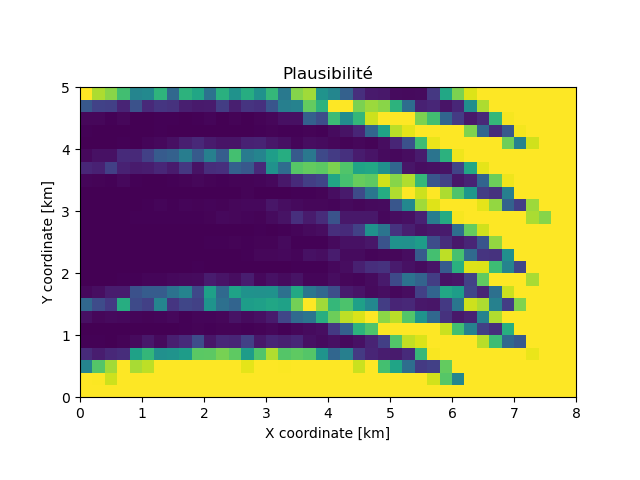
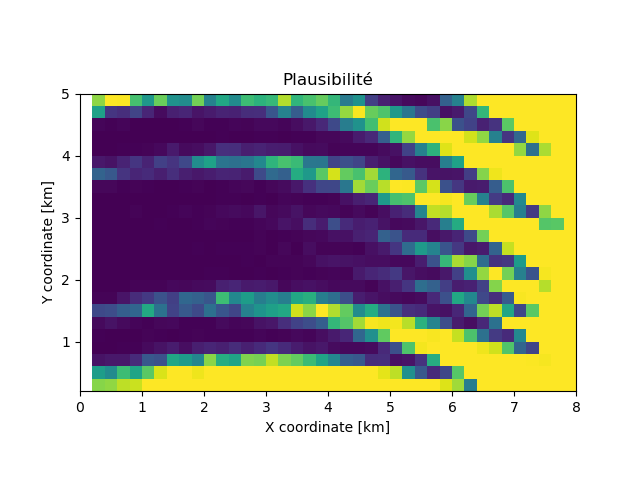
Minor revision
Renamed capteur.csv to capteurs.csv
Now we pass parameters to C functions from Python.

Changed region(s): [[0.0938, 0.125, 0.9062, 0.9375]]

diff --git a/code/pylib.py b/code/pylib.py
@@ -1,10 +1,11 @@
 import sys
 from pathlib import Path
 import ctypes
+from math import floor
 
 ## -----------------------------------------------------------------------------
 
-# Define the ctypes structure
+# Define ctypes structure
 class Capteur(ctypes.Structure):
     _fields_ = [
         ('x', ctypes.c_double),
@@ -13,7 +14,7 @@ class Capteur(ctypes.Structure):
         ('paquets', ctypes.c_int)
     ]
 
-def dataframe2struct(df):
+def capteur2struct(df):
 
     # Create a ctypes array of MyStruct
     ctypes_array = (Capteur * len(df))()
@@ -26,7 +27,28 @@ def dataframe2struct(df):
         ctypes_array[i].paquets = 0
 
     return ctypes_array
+    
+# Define ctypes structure
+class Grille(ctypes.Structure):
+    _fields_ = [
+        ('r0', ctypes.c_double * 2),
+        ('dr', ctypes.c_double * 2),
+        ('n', ctypes.c_int * 2),
+    ]
+    
+def grille2struct(r0, rmax, dr):
 
+    npoints = list(map(lambda r0, dr, rmax: \
+                       floor((rmax - r0) / dr), r0, dr, rmax))
+    
+    grille = Grille()
+    for i in range(len(r0)):
+        grille.r0[i] = r0[i]
+        grille.dr[i] = dr[i]        
+        grille.n[i] = npoints[i]
+
+    return grille
+    
 ## -----------------------------------------------------------------------------
 
 # Load the shared library into ctypes
@@ -41,28 +63,33 @@ dll.print_sensor_pos.restype = None
 
 def sensor_test(df):
     # Call the C function
-    ctypes_struct_array = dataframe2struct(df)
+    ctypes_struct_array = capteur2struct(df)
     return dll.print_sensor_pos(len(ctypes_struct_array), ctypes_struct_array)
 
 ## -----------------------------------------------------------------------------
 
-dll.simpoint.argtypes = (ctypes.c_int, ctypes.POINTER(Capteur))
+dll.simpoint.argtypes = (ctypes.c_int, ctypes.POINTER(Capteur),
+                         ctypes.c_double, ctypes.c_double, ctypes.c_double,
+                         ctypes.c_int32)
 dll.simpoint.restype = ctypes.c_double
 
-def simulate_point(df):
+def simulate_point(df, x, y, r, iterations):
     # Call the C function
-    ctypes_struct_array = dataframe2struct(df)
-    p = dll.simpoint(len(ctypes_struct_array), ctypes_struct_array)
+    ctypes_struct_array = capteur2struct(df)
+    p = dll.simpoint(len(ctypes_struct_array), ctypes_struct_array,
+                     x, y, r, iterations)
     paquets = [ctypes_struct_array[i].paquets for i in range(len(ctypes_struct_array))]
     return {'plausibilite': p, 'paquets': paquets}
 
 ## -----------------------------------------------------------------------------
 
-dll.simgrid.argtypes = (ctypes.c_int, ctypes.POINTER(Capteur), ctypes.c_char_p)
+dll.simgrid.argtypes = (ctypes.c_int, ctypes.POINTER(Capteur),
+                        Grille, ctypes.c_double, ctypes.c_int,
+                        ctypes.c_char_p)
 dll.simgrid.restype = None
 
-def simulate_grid(df, fname):
+def simulate_grid(capteurs, grille, r, iterations, fname):
     # Call the C function
     ctypes_fname = ctypes.c_char_p(str(fname).encode('utf-8'))
-    ctypes_struct_array = dataframe2struct(df)
-    return dll.simgrid(len(ctypes_struct_array), ctypes_struct_array, ctypes_fname)
+    ctypes_struct_array = capteur2struct(capteurs)
+    return dll.simgrid(len(ctypes_struct_array), ctypes_struct_array, grille, r, iterations, ctypes_fname)

diff --git a/code/cmain.c b/code/cmain.c
@@ -16,22 +16,23 @@ void print_sensor_pos(int len, struct Capteur* capteurs) {
     
 }
 
-double simpoint(int len, struct Capteur* capteurs) {
+double simpoint(int len, struct Capteur* capteurs, double x, double y, double r, int iterations) {
   srandom(time(NULL));
-  double p = simulePaquets(capteurs, 2500, 3100, 10, 100);
+  double p = simulePaquets(capteurs, x, y, r, iterations);
   return p;
 }
 
-void simgrid(int len, struct Capteur* capteurs, const char* fname) {
+void simgrid(int len, struct Capteur* capteurs, struct Grille grille, double r, int iterations, const char* fname) {
   srandom(time(NULL));
 
   // E. Toute la grille
   FILE * file = fopen(fname, "w");
-  for (int y = 0; y < 25; y++) {
-    for (int x = 0; x < 40; x++) {
+  for (int j = 0; j < grille.n[1]; j++) {
+    for (int i = 0; i < grille.n[0]; i++) {
       // C. Simuler
-      double p = simulePaquets(capteurs, 100 + x * 200, 4900 - y * 200, 10, 100);
-
+      double x = grille.r0[0] + i * grille.dr[0];
+      double y = grille.r0[1] + j * grille.dr[1];
+      double p = simulePaquets(capteurs, x, y, r, iterations);
       // F. Ecrire un fichier CSV
       if (x > 0) fprintf(file, ", ");
       fprintf(file, "%.5f", p);

diff --git a/code/simulategrid.py b/code/simulategrid.py
@@ -1,7 +1,7 @@
 import sys
 from pathlib import Path
 import pandas as pd
-from pylib import simulate_grid
+from pylib import simulate_grid, grille2struct
 
 def stripkm(string):
     return string.replace(' km', '')
@@ -16,9 +16,18 @@ if __name__ == '__main__':
 
     ROOT = Path(sys.path[0]).parent
 
-    sensors = pd.read_csv(ROOT.joinpath('data', 'capteur.csv'), sep='\t')
     outfile = ROOT.joinpath('results', 'plausibilite.csv')
-    
+
+    ## sensors    
+    sensors = pd.read_csv(ROOT.joinpath('data', 'capteurs.csv'), sep='\t')
     xycoord = capteurs_numeric(sensors)
-    
-    simulate_grid(xycoord, outfile)
+
+    ## grid
+    grille = grille2struct(r0 = (100, 4900),
+                           rmax = (8000, 0),
+                           dr = (200, -200))
+    r = 10
+    iterations = 100
+
+    ## simulate
+    simulate_grid(xycoord, grille, r, iterations, outfile)

diff --git a/code/cfunctions.h b/code/cfunctions.h
@@ -5,6 +5,12 @@ struct Capteur {
   int paquets;
 };
 
+struct Grille {
+  double r0[2];
+  double dr[2];
+  int n[2];
+};
+
 double randomNumber(double max);
 
 double plausibilite(double detectionsSimulees, double detectionsObservees);
